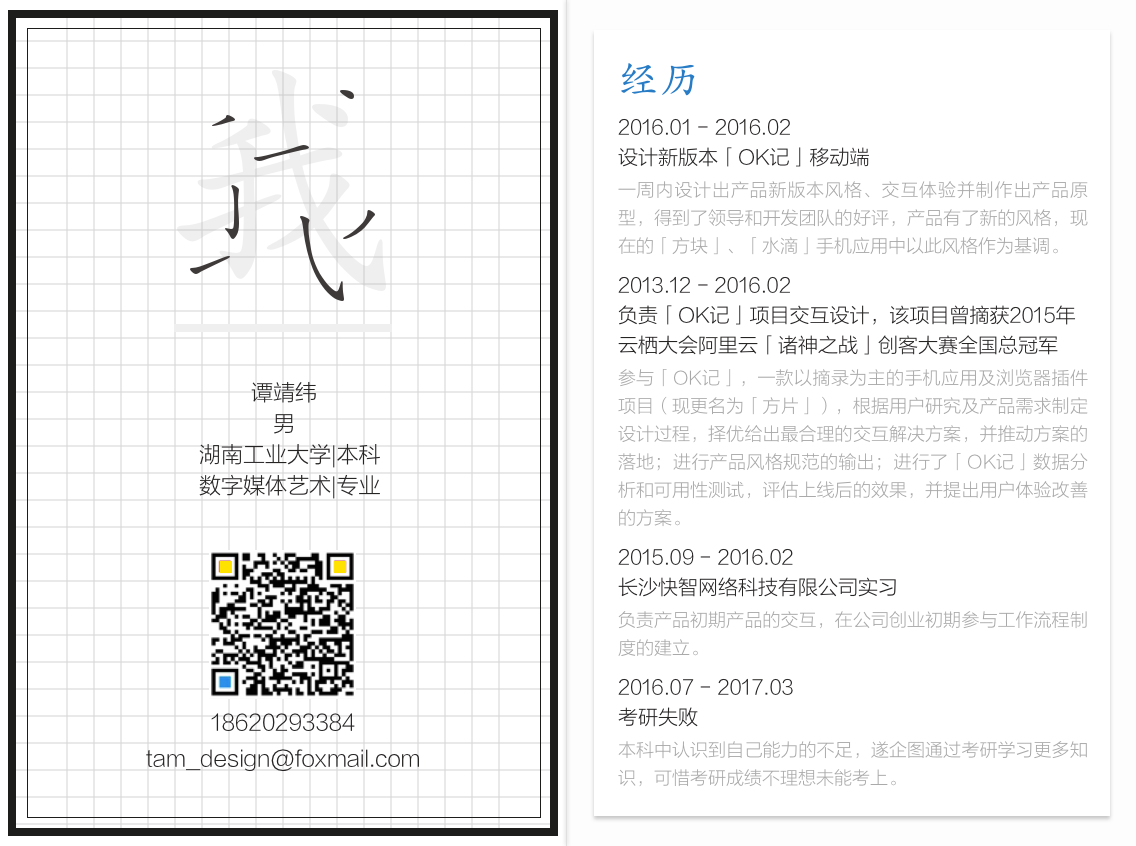
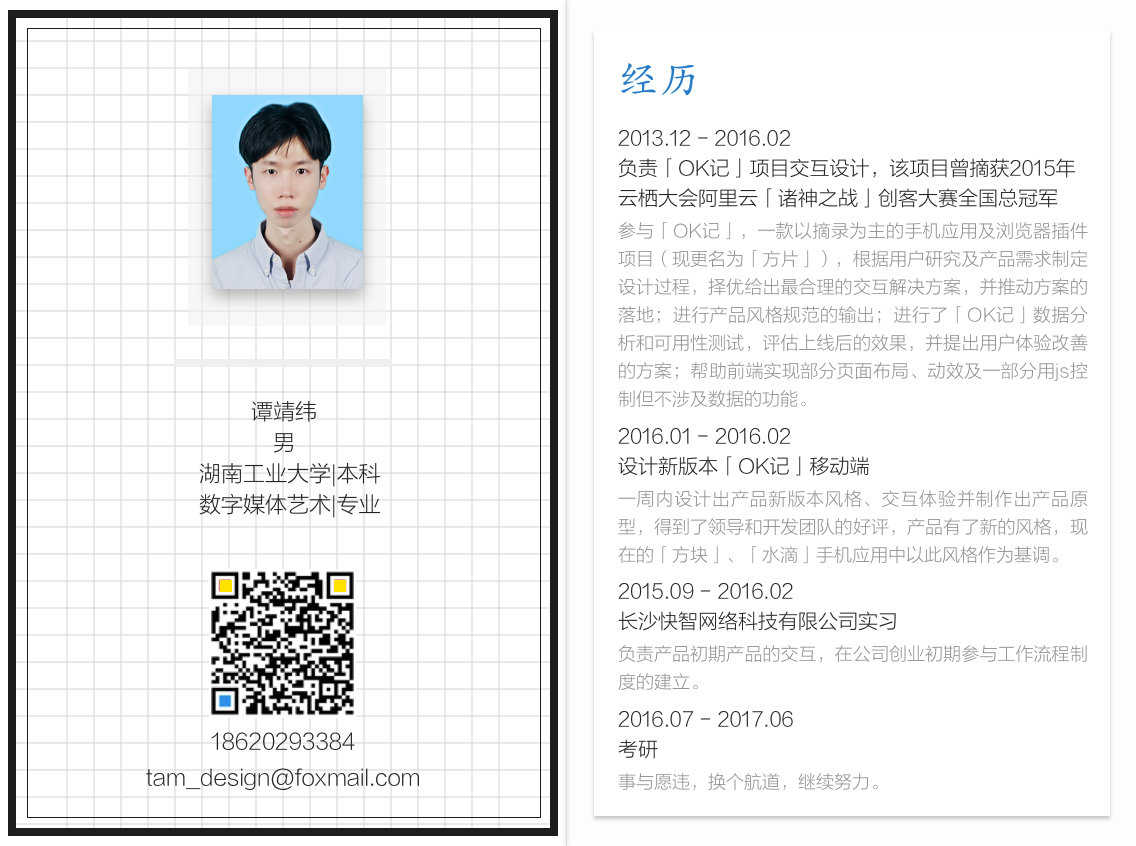
add photo

diff --git a/index.html b/index.html
@@ -2,7 +2,7 @@
 <html lang="zh">
 <head>
 	<meta charset="UTF-8">
-	<title>应聘UI/交互设计-谭靖纬</title>
+	<title>谭什么的作品集</title>
 	<link rel="stylesheet" href="layout/style.css">
 	<link rel="stylesheet" href="layout/flickity.min.css">
 	<style>
